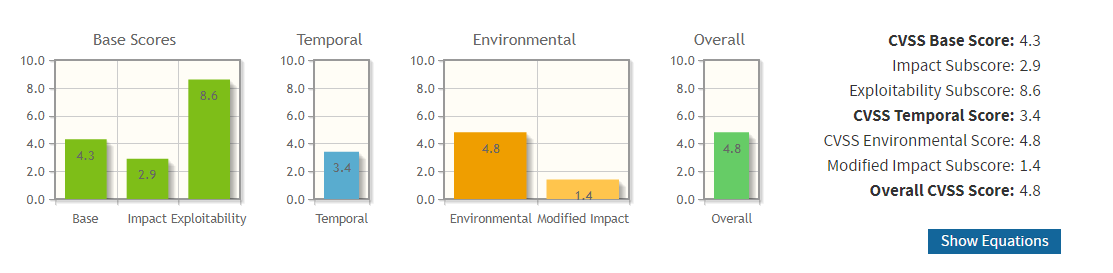
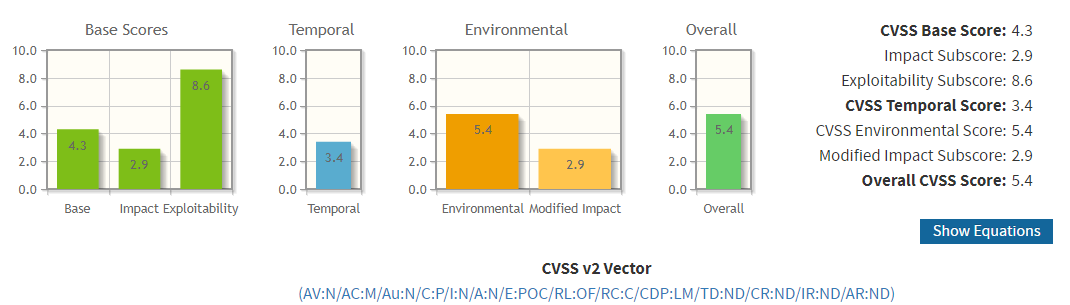
ns_chap0x02

diff --git a/ns_chap0x02/实验报告.md b/ns_chap0x02/实验报告.md
@@ -38,10 +38,10 @@
       - 漏洞的分布范围
     - Security Requirements(CR,IR,AR)
 
-### CVSS与漏洞评分实例讲解
+## CVSS与漏洞评分实例讲解
 
 ---
-#### CVE-2014-6332
+#### 1. CVE-2014-6332
  - 该漏洞选取自老师您的文档里面提到的漏洞
 
  - 通过查找资料可知以下内容
@@ -58,7 +58,7 @@
 
   - 根据信息，对漏洞进行评判
     - Base
-      - Attack Vector：Network
+      - Attack Vector：Network(可以远程进行)
       - Access Complesity：Medium(漏洞使用有难度，但并没有达到高的程度)
       - Authentication：None(不需要认证)
       - CIA：Complete(可以做到接管用户的计算机)
@@ -87,7 +87,7 @@
 
 ----
 
-#### CVE-2018-11620
+#### 2. CVE-2018-11620
 - 通过查找相关资料得到以下信息
   - 该漏洞来自Foxit Readers
   - 该漏洞于2018年3月21号向供应商报告
@@ -99,22 +99,22 @@
 
 - 根据信息，对漏洞进行评判
     - Base
-      - Attack Vector：Network
+      - Attack Vector：Network(可远程进行)
       - Access Complesity：Medium(漏洞使用有难度，涉及到了交互，但并没有达到高的程度)
-      - Authentication：None
-      - Confidentiality Impact：Partial(会导致用户泄露敏感信息,但没到全部泄露的底部)
+      - Authentication：None(不需要认证)
+      - Confidentiality Impact：Partial(会导致用户泄露敏感信息,但没到全部泄露的程度)
       - Integrity Impact：None(对系统的完整性没有影响)
       - Availability Impact:None(对系统的可用性没有影响)
     - Temporal
-      - Exploitability：POC(没查询到漏洞利用代码，只知道需要对特点的dll进行配置进行攻击)
+      - Exploitability：POC(查询到漏洞利用代码，需要对特点的dll配置进行攻击)
       - Remediation Level：OF(Foxit已发布更新修复漏洞)
       - Report Confidence：C(得到官方承认)
     - Environmental
       - Collateral Damage Potential：LM(只讨论这个漏洞的情况下，稍微严重的方面有信息曝光和免费使用软件)
       - Target Distribution：ND(没查到)
-      - Security Requirements：CR设置为Medium，其他为LOW
+      - Security Requirements：ND
 
-- CVSS结果，漏洞最终得分为4.8，属于中级漏洞级别
+- CVSS结果，漏洞最终得分为5.4，属于中级漏洞级别
 
 ![](image/CVE-2018-11620.PNG)
 
@@ -124,9 +124,63 @@
 
 ![](image/NVD_CVE-2018-11620.PNG)
 
+---
+#### 3. CVE-2017-2622
+
+- 通过查找相关资料得到以下信息
+  - 漏洞来自OpenStack Workflow(mistral)
+  - Mistral是Mirantis公司为Openstack开发的工作流组件
+  - Openstack是一个开源的云计算管理平台项目
+  - 服务日志目录不正确地使其可读
+  - 需要本地访问
+  - 恶意用户可以利用漏洞访问敏感信息
+  - 官方已经升级版本
+  - 敏感信息和日志的设置是world readable
+
+- 根据信息，对漏洞进行评判
+    - Base
+      - Attack Vector：Local(需要用户在本机上直接进行操作，属于本地访问)
+      - Access Complesity：Low(敏感信息是直接可以访问的，攻击复杂度很低)
+      - Authentication：None(world readable)
+      - Confidentiality Impact：Partial(会导致用户泄露敏感信息,但没到全部泄露的程度)
+      - Integrity Impact：None(对系统的完整性没有影响)
+      - Availability Impact:None(对系统的可用性没有影响)
+    - Temporal
+      - Exploitability：F(漏洞利用难度低，可利用性高)
+      - Remediation Level：OF(官方已发布更新修复漏洞)
+      - Report Confidence：C(得到官方承认)
+    - Environmental
+      - Collateral Damage Potential：LM(只讨论这个漏洞的情况下，只有泄露部分敏感信息这个部分)
+      - Target Distribution：ND(没查到)
+      - Security Requirements：ND
+
+- CVSS结果，漏洞最终得分为2.6，属于低级漏洞级别
+
+![](image/CVE-2017-2622.PNG)
+
+- 参考了NVD上的关于CVE-2017-2622的漏洞分析，但只有关于Base Score部分，其他两个部分是我根据资料自行判断的
+
+- NVD上给出的分析
+
+![](image/NVD_CVE-2017-2622.PNG)
+
+---
+
+### 相关问题
+
+- 不太清楚Exploitability中POC和F的评判等级的差别
+- 该评判漏洞系统有没有什么缺点
+
+---
 
 ### 参考资料
-- [win95+ie3-win10+ie11全版本执行漏洞](https://www.nigesb.com/cve-2014-6332-poc.html)
+
 - [A Complete Guide to the Common Vulnerability Scoring System](https://www.first.org/cvss/v2/guide#2-1-Base-Metrics)
+- [win95+ie3-win10+ie11全版本执行漏洞](https://www.nigesb.com/cve-2014-6332-poc.html)
 - [IBM X-Force Researcher Finds Significant Vulnerability in Microsoft Windows](https://securityintelligence.com/ibm-x-force-researcher-finds-significant-vulnerability-in-microsoft-windows/#.VGsPutyUeXk)
+- [Microsoft 安全公告 MS14-064 - 严重](https://docs.microsoft.com/zh-cn/security-updates/Securitybulletins/2014/ms14-064)
 - [Foxitsoftware Foxit Reader 9.0.1.1049](http://www.security-database.com/cpe.php?detail=cpe:/a:foxitsoftware:foxit_reader:9.0.1.1049)
+- [Foxit Reader ConvertToPDF_x86 JPG Parsing Out-Of-Bounds Read Information Disclosure Vulnerability](https://www.zerodayinitiative.com/advisories/ZDI-18-697/)
+- [RHSA-2017:1584 - Security Advisory](https://access.redhat.com/errata/RHSA-2017:1584)
+- [Bug 1420992 - (CVE-2017-2622) CVE-2017-2622 openstack-mistral: /var/log/mistral/ is world readable](https://bugzilla.redhat.com/show_bug.cgi?id=CVE-2017-2622)
+
